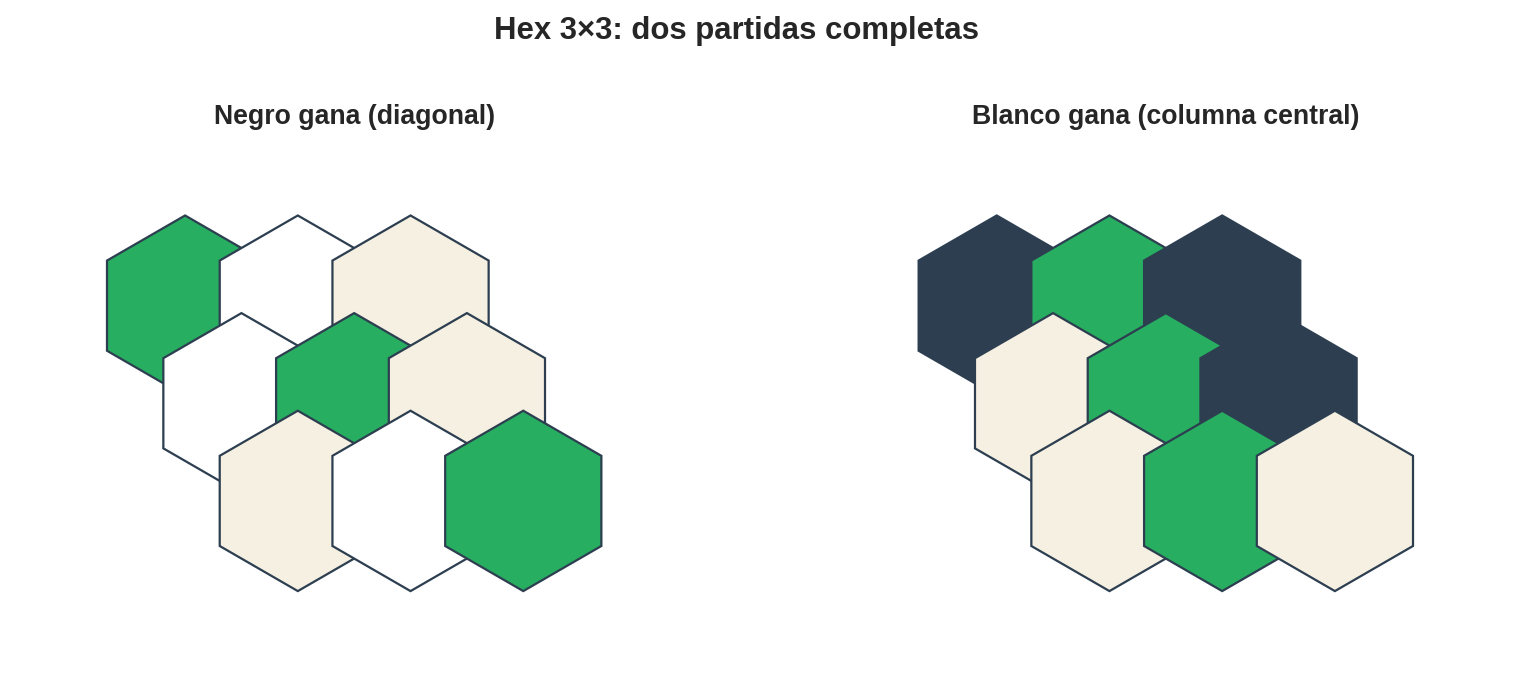
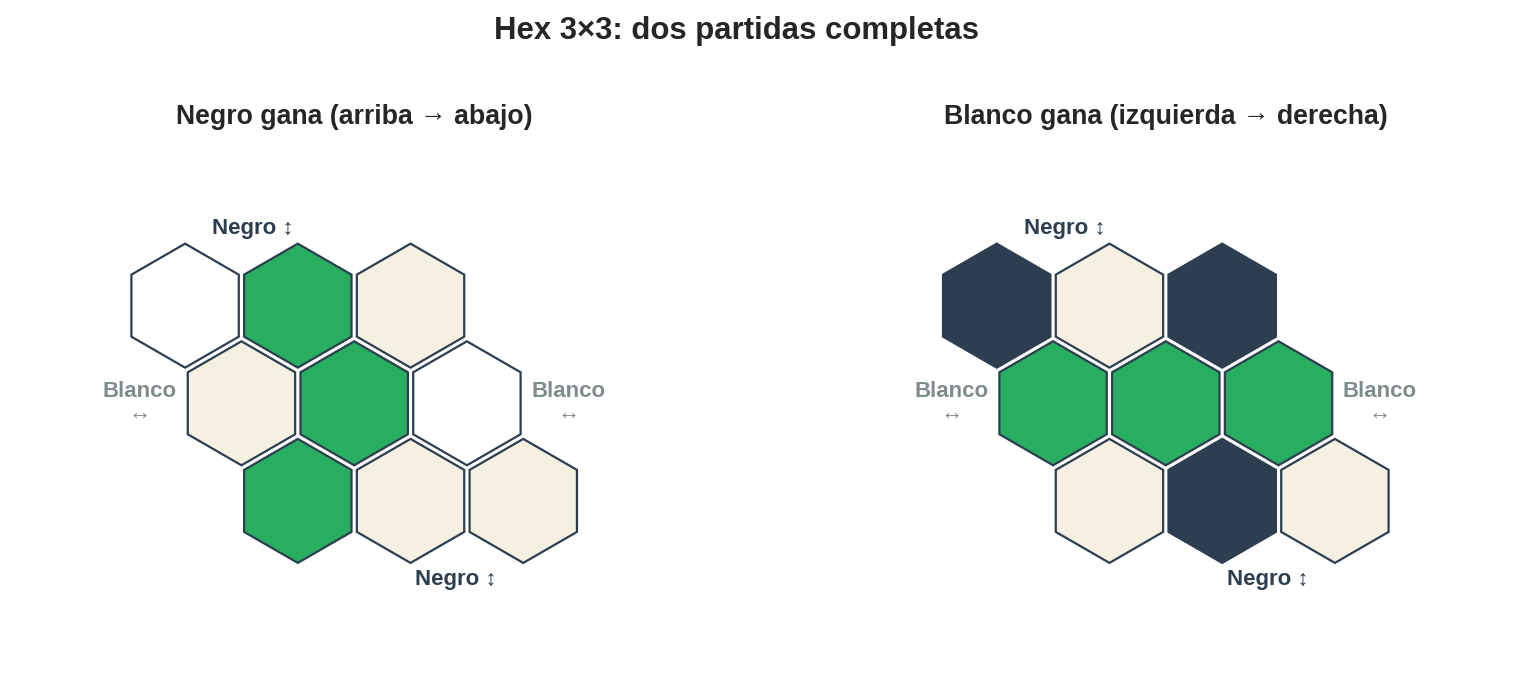
improved board winning example/conditions

diff --git a/clase/18_montecarlo_search/lab_mcts.py b/clase/18_montecarlo_search/lab_mcts.py
@@ -531,21 +531,23 @@ def plot_05_hex_3x3_games():
     """Two completed 3x3 games side by side."""
     fig, (ax1, ax2) = plt.subplots(1, 2, figsize=(12, 5))
 
-    # Game 1: Black wins
-    b1 = [[1, 2, 0],
-           [2, 1, 0],
-           [0, 2, 1]]
-    win1 = [(0, 0), (1, 1), (2, 2)]
-    _draw_hex_board(ax1, b1, 3, hex_size=0.8, win_path=win1, edge_labels=False)
-    ax1.set_title("Negro gana (diagonal)", fontsize=12, fontweight='bold')
+    # Game 1: Black wins (top row → bottom row via diagonal path)
+    # B placed at (0,1), (1,1), (2,0) — connected chain from row 0 to row 2
+    b1 = [[2, 1, 0],
+           [0, 1, 2],
+           [1, 0, 0]]
+    win1 = [(0, 1), (1, 1), (2, 0)]
+    _draw_hex_board(ax1, b1, 3, win_path=win1, edge_labels=True)
+    ax1.set_title("Negro gana (arriba → abajo)", fontsize=12, fontweight='bold')
 
-    # Game 2: White wins
-    b2 = [[1, 2, 1],
-           [0, 2, 1],
-           [0, 2, 0]]
-    win2 = [(0, 1), (1, 1), (2, 1)]
-    _draw_hex_board(ax2, b2, 3, hex_size=0.8, win_path=win2, edge_labels=False)
-    ax2.set_title("Blanco gana (columna central)", fontsize=12, fontweight='bold')
+    # Game 2: White wins (left col → right col via middle row)
+    # W placed at (1,0), (1,1), (1,2) — connected chain from col 0 to col 2
+    b2 = [[1, 0, 1],
+           [2, 2, 2],
+           [0, 1, 0]]
+    win2 = [(1, 0), (1, 1), (1, 2)]
+    _draw_hex_board(ax2, b2, 3, win_path=win2, edge_labels=True)
+    ax2.set_title("Blanco gana (izquierda → derecha)", fontsize=12, fontweight='bold')
 
     fig.suptitle("Hex 3×3: dos partidas completas", fontsize=14, fontweight='bold')
     _save(fig, "05_hex_3x3_games.png")

diff --git a/clase/18_montecarlo_search/02_hex.md b/clase/18_montecarlo_search/02_hex.md
@@ -77,7 +77,7 @@ El jugador Negro formó una cadena de piedras conectando su lado superior con su
 
 ![Dos partidas completas en Hex 3×3]({{ '/18_montecarlo_search/images/05_hex_3x3_games.png' | url }})
 
-Dos partidas en el tablero pequeño que usaremos para trazas. A la izquierda, una victoria de Negro; a la derecha, una victoria de Blanco. En 3×3, el juego dura como máximo 9 movimientos y el árbol completo tiene $\sim 10^3$ nodos — lo suficientemente pequeño para que minimax (o MCTS con pocas iteraciones) lo resuelva.
+Dos partidas en el tablero pequeño que usaremos para trazas. A la izquierda, Negro conecta su lado superior con su lado inferior a través de una cadena diagonal (resaltada en verde). A la derecha, Blanco conecta su lado izquierdo con su lado derecho cruzando por la fila central. En 3×3, el juego dura como máximo 9 movimientos y el árbol completo tiene $\sim 10^3$ nodos — lo suficientemente pequeño para que minimax (o MCTS con pocas iteraciones) lo resuelva.
 
 ---
 
